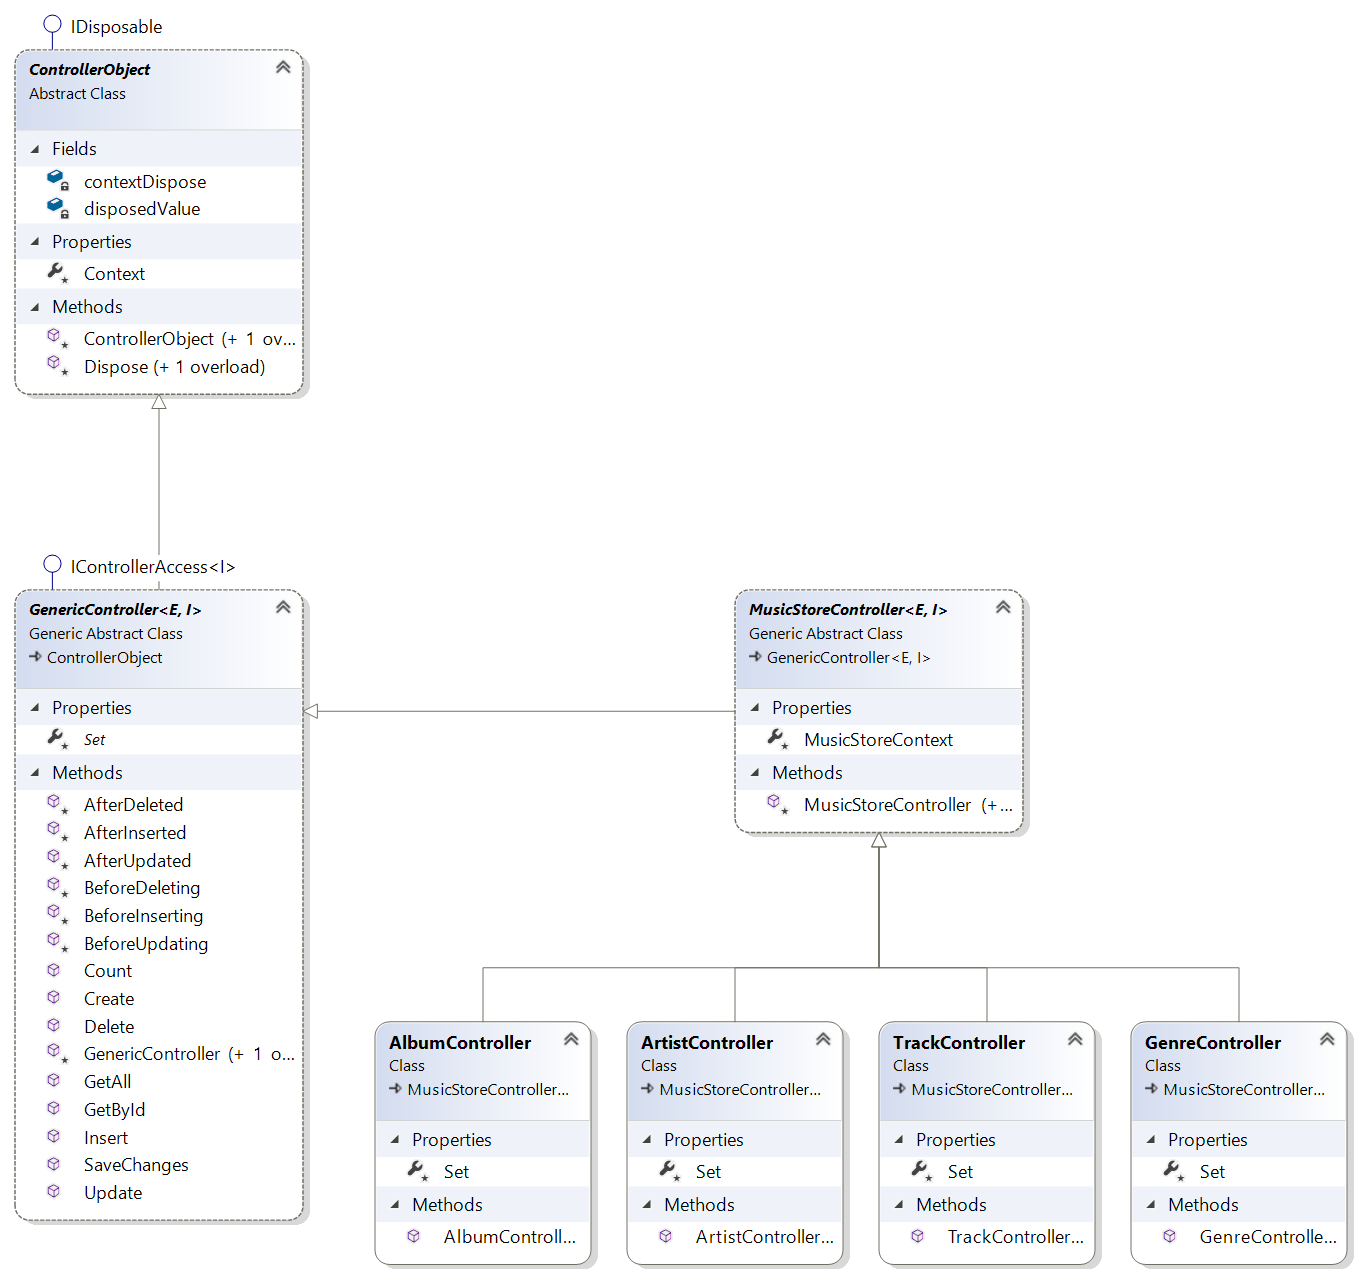
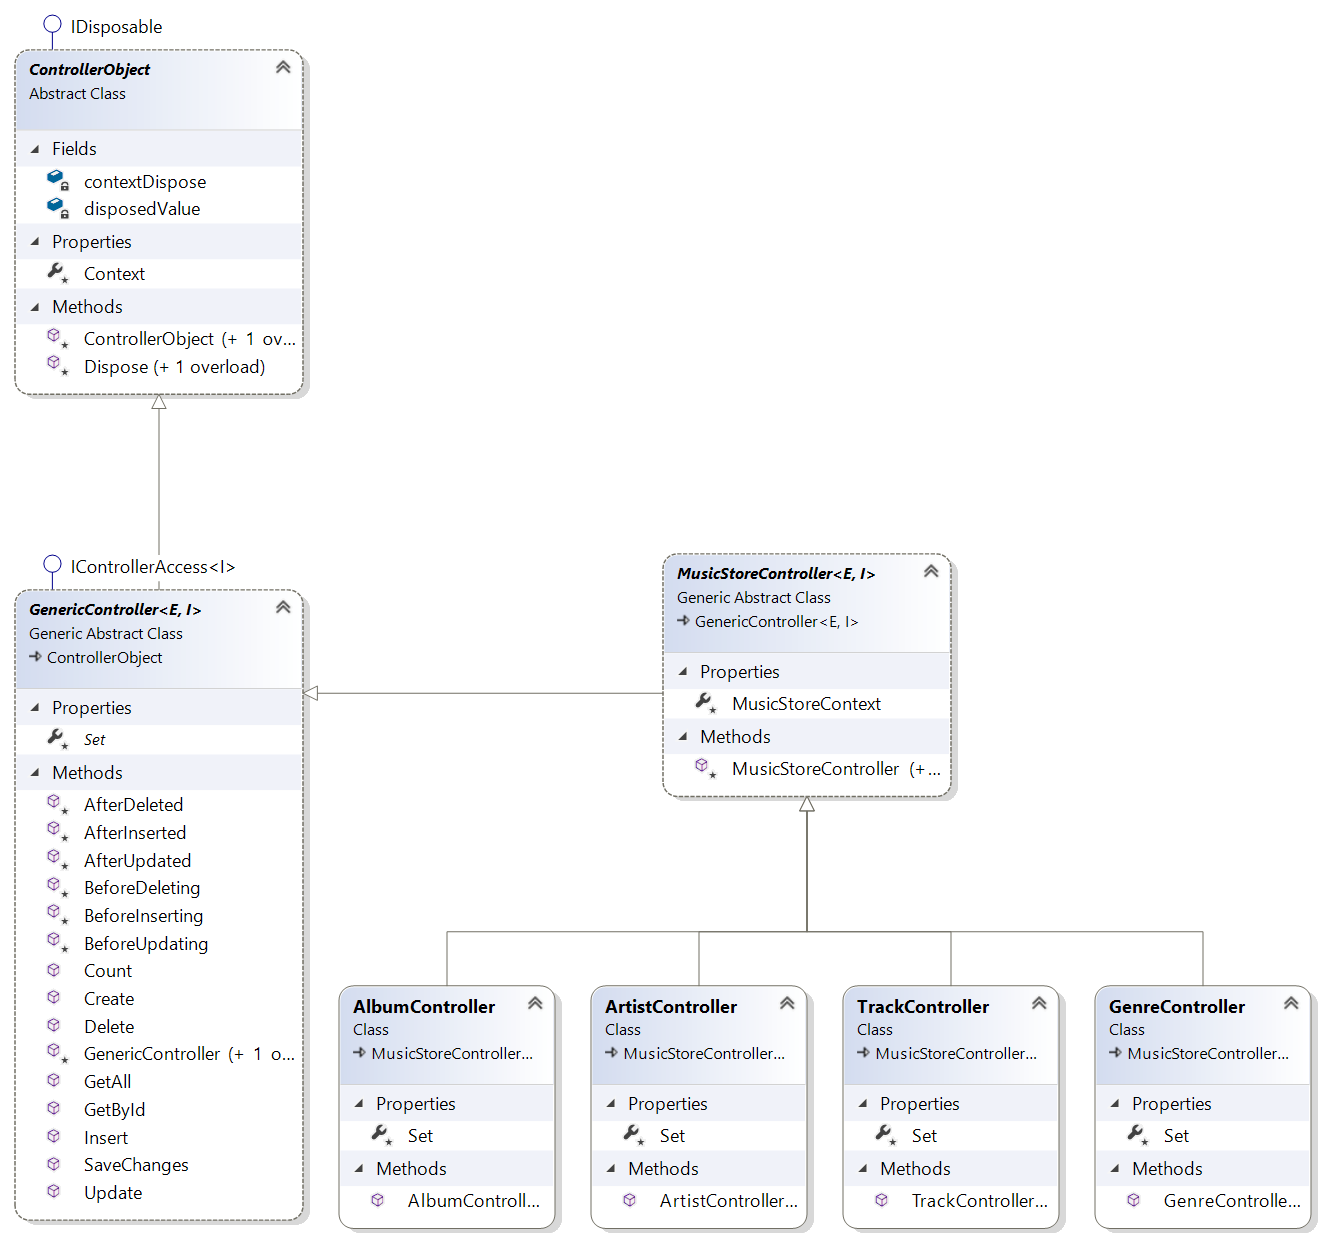
Edit documentation

Changed region(s): [[0.0, 0.4283, 0.9909, 1.0], [0.0, 0.0, 0.2477, 0.3366]]

diff --git a/MusicStore.Logic/Controllers/ControllerObject.cs b/MusicStore.Logic/Controllers/ControllerObject.cs
@@ -7,7 +7,7 @@ namespace MusicStore.Logic.Controllers
 {
     internal abstract partial class ControllerObject : IDisposable
     {
-		private bool contextDispose;
+        private bool contextDispose;
         protected IContext Context { get; private set; }
 
         protected ControllerObject(IContext context)
@@ -16,16 +16,16 @@ namespace MusicStore.Logic.Controllers
                 throw new ArgumentNullException(nameof(context));
 
             Context = context;
-			contextDispose = true;
+            contextDispose = true;
         }
-		protected ControllerObject(ControllerObject controller)
-		{
-			if (controller == null)
-				throw new ArgumentNullException(nameof(controller));
+        protected ControllerObject(ControllerObject controller)
+        {
+            if (controller == null)
+                throw new ArgumentNullException(nameof(controller));
 
-			Context = controller.Context;
-			contextDispose = false;
-		}
+            Context = controller.Context;
+            contextDispose = false;
+        }
 
         #region IDisposable Support
         private bool disposedValue = false; // To detect redundant calls
@@ -37,15 +37,15 @@ namespace MusicStore.Logic.Controllers
                 if (disposing)
                 {
                     // TODO: dispose managed state (managed objects).
-					if (contextDispose && Context != null)
-					{
-						Context.Dispose();
-					}
+                    if (contextDispose && Context != null)
+                    {
+                        Context.Dispose();
+                    }
                 }
 
-				// TODO: free unmanaged resources (unmanaged objects) and override a finalizer below.
-				// TODO: set large fields to null.
-				Context = null;
+                // TODO: free unmanaged resources (unmanaged objects) and override a finalizer below.
+                // TODO: set large fields to null.
+                Context = null;
                 disposedValue = true;
             }
         }

diff --git a/MusicStore.Logic/Controllers/Persistence/TrackController.cs b/MusicStore.Logic/Controllers/Persistence/TrackController.cs
@@ -5,18 +5,18 @@ using MusicStore.Logic.DataContext;
 
 namespace MusicStore.Logic.Controllers.Persistence
 {
-	internal partial class TrackController : MusicStoreController<Entities.Persistence.Track, Contracts.Persistence.ITrack>
-	{
+    internal partial class TrackController : MusicStoreController<Entities.Persistence.Track, Contracts.Persistence.ITrack>
+    {
         protected override IEnumerable<Entities.Persistence.Track> Set => MusicStoreContext.Tracks;
 
-		public TrackController(IContext context)
+        public TrackController(IContext context)
             : base(context)
         {
         }
         public TrackController(ControllerObject controller)
-			: base(controller)
-		{
-		}
-	}
+            : base(controller)
+        {
+        }
+    }
 }
 //MdEnd

diff --git a/MusicStore.Logic/Controllers/Persistence/AlbumController.cs b/MusicStore.Logic/Controllers/Persistence/AlbumController.cs
@@ -5,18 +5,18 @@ using System.Collections.Generic;
 
 namespace MusicStore.Logic.Controllers.Persistence
 {
-	internal partial class AlbumController : MusicStoreController<Entities.Persistence.Album, Contracts.Persistence.IAlbum>
-	{
+    internal partial class AlbumController : MusicStoreController<Entities.Persistence.Album, Contracts.Persistence.IAlbum>
+    {
         protected override IEnumerable<Entities.Persistence.Album> Set => MusicStoreContext.Albums;
 
-		public AlbumController(IContext context)
+        public AlbumController(IContext context)
             : base(context)
         {
         }
         public AlbumController(ControllerObject controller)
-			: base(controller)
-		{
-		}
-	}
+            : base(controller)
+        {
+        }
+    }
 }
 //MdEnd

diff --git a/MusicStore.Logic/Controllers/Persistence/ArtistController.cs b/MusicStore.Logic/Controllers/Persistence/ArtistController.cs
@@ -6,17 +6,17 @@ using System.Collections.Generic;
 namespace MusicStore.Logic.Controllers.Persistence
 {
     internal partial class ArtistController : MusicStoreController<Entities.Persistence.Artist, Contracts.Persistence.IArtist>
-	{
+    {
         protected override IEnumerable<Entities.Persistence.Artist> Set => MusicStoreContext.Artists;
 
-		public ArtistController(IContext context)
+        public ArtistController(IContext context)
             : base(context)
         {
         }
         public ArtistController(ControllerObject controller)
-			: base(controller)
-		{
-		}
-	}
+            : base(controller)
+        {
+        }
+    }
 }
 //MdEnd

diff --git a/MusicStore.Logic/Controllers/Persistence/GenreController.cs b/MusicStore.Logic/Controllers/Persistence/GenreController.cs
@@ -9,7 +9,7 @@ namespace MusicStore.Logic.Controllers.Persistence
     {
         protected override IEnumerable<Entities.Persistence.Genre> Set => MusicStoreContext.Genres;
 
-		public GenreController(IContext context)
+        public GenreController(IContext context)
             : base(context)
         {
         }

diff --git a/README.md b/README.md
@@ -263,7 +263,7 @@ namespace MusicStore.Contracts.Client
 }
 ```  
 Die Definition dieser Schnittstelle ist generisch und für diesen generischen Parameter können alle Schnittstellen vom Typ 'IIdentifyable' eingestezt werden. 
-Diese [generische Schnittstelle](https://docs.microsoft.com/de-de/dotnet/csharp/programming-guide/generics/generic-interfaces) ist ein großer Vorteil, weil diese nur einmal definiert werden muss und für alle Kontrollertypen verwendet werden kann.  
+Die Definition einer [generische Schnittstelle](https://docs.microsoft.com/de-de/dotnet/csharp/programming-guide/generics/generic-interfaces) ist in diesem Fall ein großer Vorteil, weil diese nur einmal definiert werden muss und für alle Kontrollertypen verwendet werden kann.  
 Diese Schnittstelle ist von IDisposable abgeleitet. Damit wird folgende Regel in Betracht gezogen. Alle Komponenten, welche eine Ressource beinhalten oder beinhalten könnten, müssen diese Schnittstelle implementieren. Aus dieser Regel ergibt sich, dass alle Objekte, welche diese Schnittstelle implementieren, mit dem Schlüsselwort *'using'* verwendet werden müssen. Nachdem ein Kontroller einen 'DbContext' beinhalten kann, muss dieser ebenfalls wieder freigegeben werden. 
 
 **Hinweis:** Die Implementierung dieser Schnittstelle erfogt im Projekt 'MusicStore.Logic' im Bereich 'Controllers'.
@@ -442,6 +442,85 @@ namespace MusicStore.Logic.Entities.Persistence
 }
 ```  
 Die Implementierung der Entitäts-Klassen sind mit dem Attribut 'Serializable' gekennzeichnet. Dies ist nur erfoderlich, wenn die Entitäts-Objekte serialisiert werden sollen.  
+
+#### Implementierung der Kontroller  
+Der Kontroller übernimmt die Steuerung der Entitäten von der Persistierung (z.B.: Datenbank) zum Klient und umgekehrt. Es gibt für jeden Entitätstyp einen eigenen Kontroller. Im nachfolgendem Klassendiagramm ist das Model der Kontroller-Klassen dargestellt:
+
+![Kontroller](Controllers.png)
+
+Als Basis für alle Kontroller-Klassen dient die Klasse 'ControllerObject'. Diese Klasse beinhaltet eine Referenz auf die Ressource 'Context' (Schnittstelle) und sie implementiert das Dispose-Pattern zur Weiterleitung auf die 'Dispose(...)'-Methode im Kontext. Die Weiterleitung erfolgt allerdings nur dann, wenn das Feld 'contextDispose' gesetzt ist. Dieses Feld zeigt an, ob die Instanz der Besitzer von dem Kontext ist oder, ob dieser Kontext von einem anderen Kontroller übernommen worden ist. Die nachfolgende Implementierung des Objektes zeigt die Festlegung des Feldes 'contextDispose' durch die beiden Konstruktoren. 
+
+```csharp ({"Type": "FileRef", "File": "Logic/Controllers/ControllerObject.cs", "StartTag": "//MdStart", "EndTag": "//MdEnd" })
+using System;
+using MusicStore.Logic.DataContext;
+
+namespace MusicStore.Logic.Controllers
+{
+    internal abstract partial class ControllerObject : IDisposable
+    {
+        private bool contextDispose;
+        protected IContext Context { get; private set; }
+
+        protected ControllerObject(IContext context)
+        {
+            if (context == null)
+                throw new ArgumentNullException(nameof(context));
+
+            Context = context;
+            contextDispose = true;
+        }
+        protected ControllerObject(ControllerObject controller)
+        {
+            if (controller == null)
+                throw new ArgumentNullException(nameof(controller));
+
+            Context = controller.Context;
+            contextDispose = false;
+        }
+
+        #region IDisposable Support
+        private bool disposedValue = false; // To detect redundant calls
+
+        protected virtual void Dispose(bool disposing)
+        {
+            if (!disposedValue)
+            {
+                if (disposing)
+                {
+                    // TODO: dispose managed state (managed objects).
+                    if (contextDispose && Context != null)
+                    {
+                        Context.Dispose();
+                    }
+                }
+
+                // TODO: free unmanaged resources (unmanaged objects) and override a finalizer below.
+                // TODO: set large fields to null.
+                Context = null;
+                disposedValue = true;
+            }
+        }
+
+        // TODO: override a finalizer only if Dispose(bool disposing) above has code to free unmanaged resources.
+        // ~ControllerObject()
+        // {
+        //   // Do not change this code. Put cleanup code in Dispose(bool disposing) above.
+        //   Dispose(false);
+        // }
+
+        // This code added to correctly implement the disposable pattern.
+        public void Dispose()
+        {
+            // Do not change this code. Put cleanup code in Dispose(bool disposing) above.
+            Dispose(true);
+            // TODO: uncomment the following line if the finalizer is overridden above.
+            // GC.SuppressFinalize(this);
+        }
+        #endregion
+    }
+}
+```  
+ss
 
 Nachfolgend der Programmcode für die Erzeuger der Kontroller Objekte:
 
